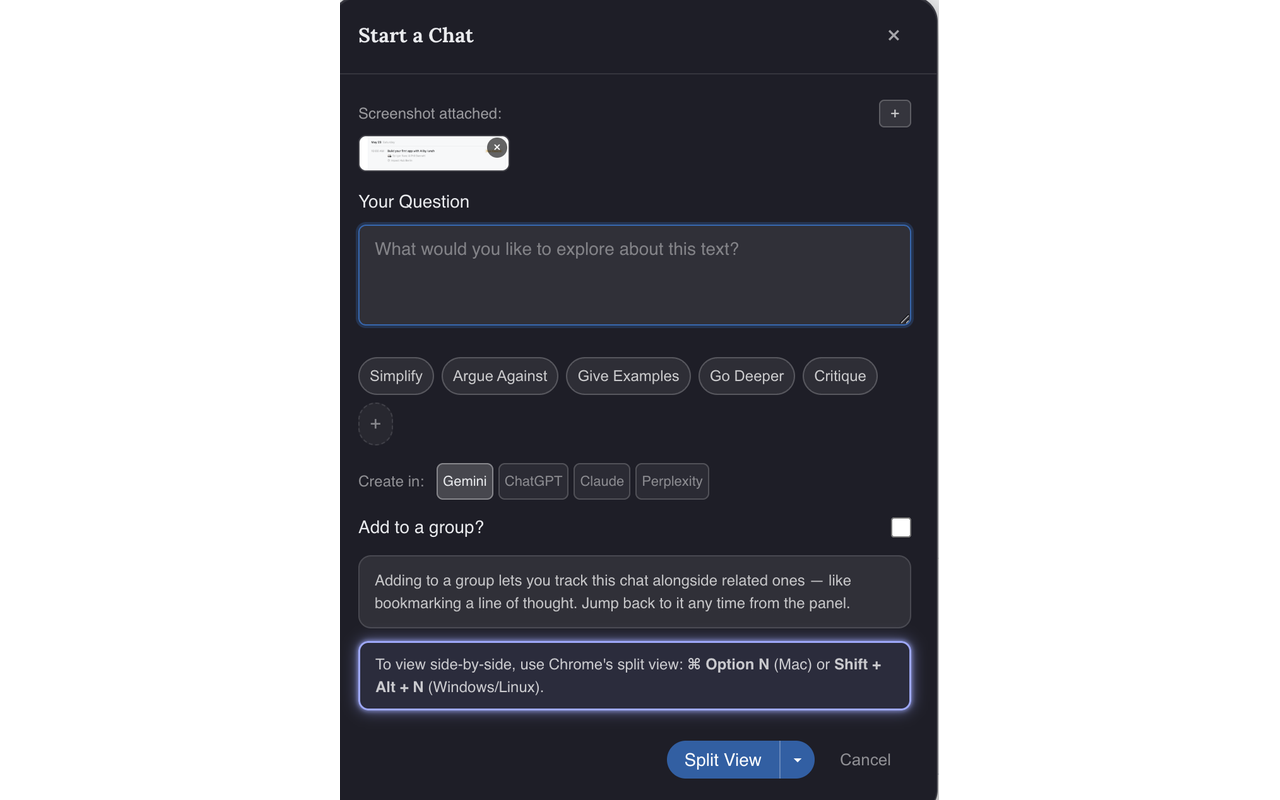
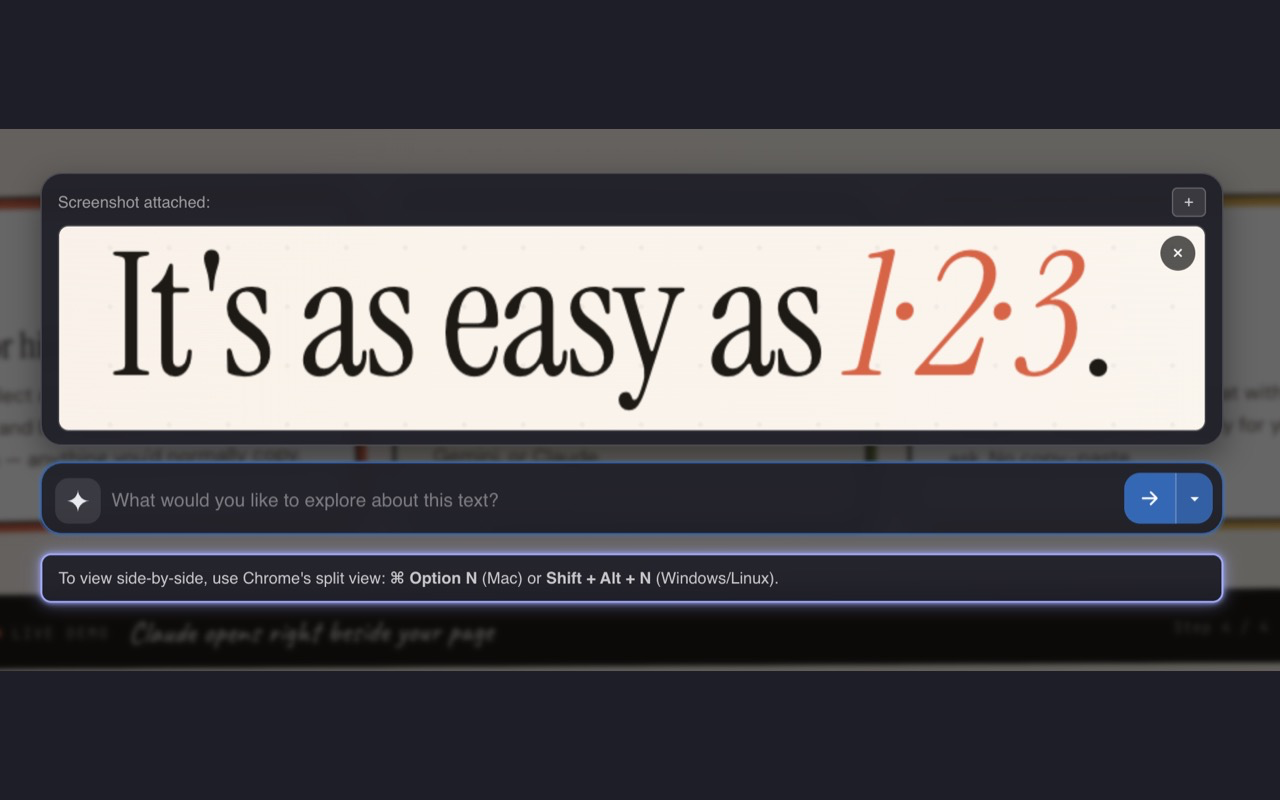
Update landing page screenshots

diff --git a/index.html b/index.html
@@ -833,17 +833,17 @@
   </div>
 
   <div class="hero-visual">
-    <!-- Polaroid 1: Big toolbar -->
+    <!-- Polaroid 1: Toolkit -->
     <div class="polaroid p1">
       <div class="tape"></div>
-      <img src="screenshot/ai-weaver-add-tools-menu-small.png" alt="Tasuku toolbar with Add Tools menu open" />
-      <div class="caption">the toolbar &mdash; with all the tools you'd want</div>
+      <img src="screenshot/ai-weaver-add-tools-menu-small.png" alt="Tasuku floating toolkit toolbar" />
+      <div class="caption">the toolkit &mdash; ready when you need it</div>
     </div>
-    <!-- Polaroid 2: Toolbar with capture portion -->
+    <!-- Polaroid 2: Selected text prompt -->
     <div class="polaroid p2">
       <div class="tape"></div>
-      <img src="screenshot/ai-weaver-toolbar-capture-portion.png" alt="Toolbar with Capture portion tooltip" />
-      <div class="caption">point, drag, capture</div>
+      <img src="screenshot/ai-weaver-toolbar-capture-portion.png" alt="Tasuku selected text prompt composer" />
+      <div class="caption">select, ask, send</div>
     </div>
     <!-- Sticky note -->
     <div class="sticky-note s1">